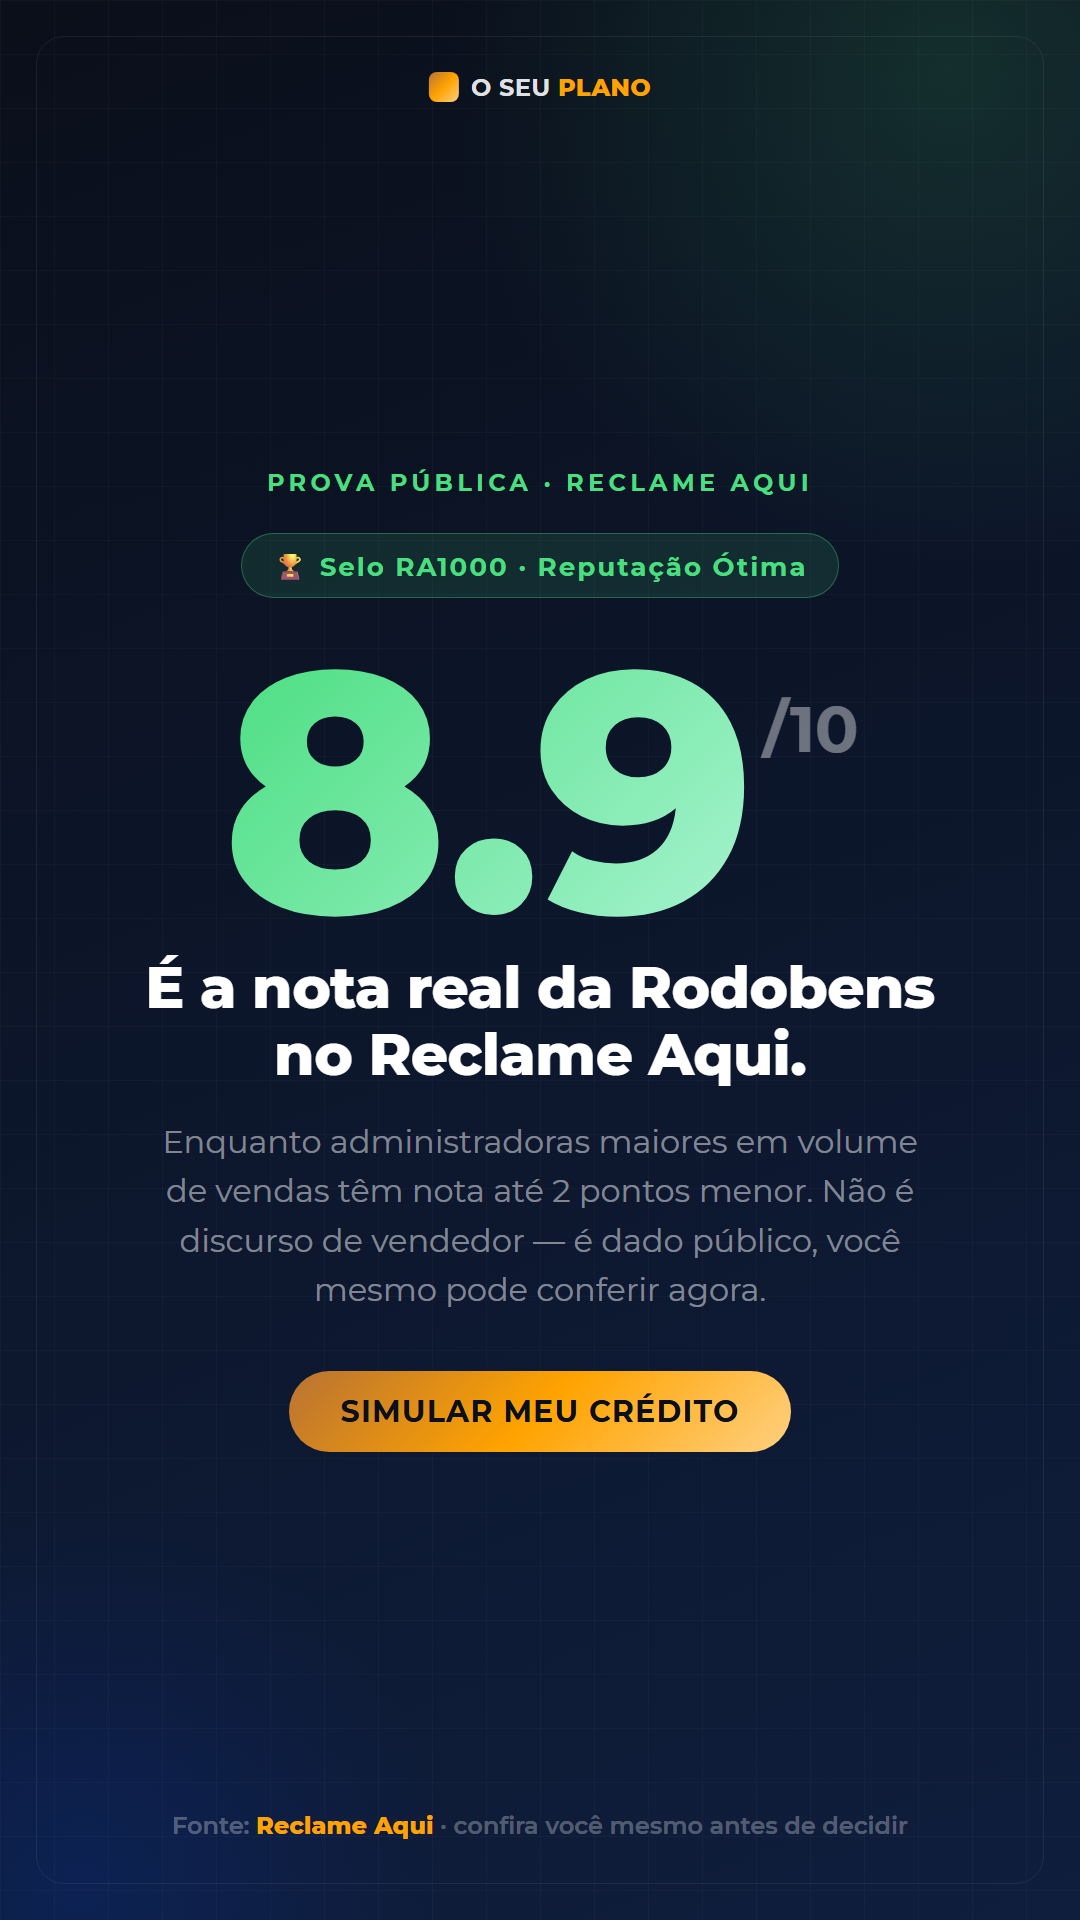
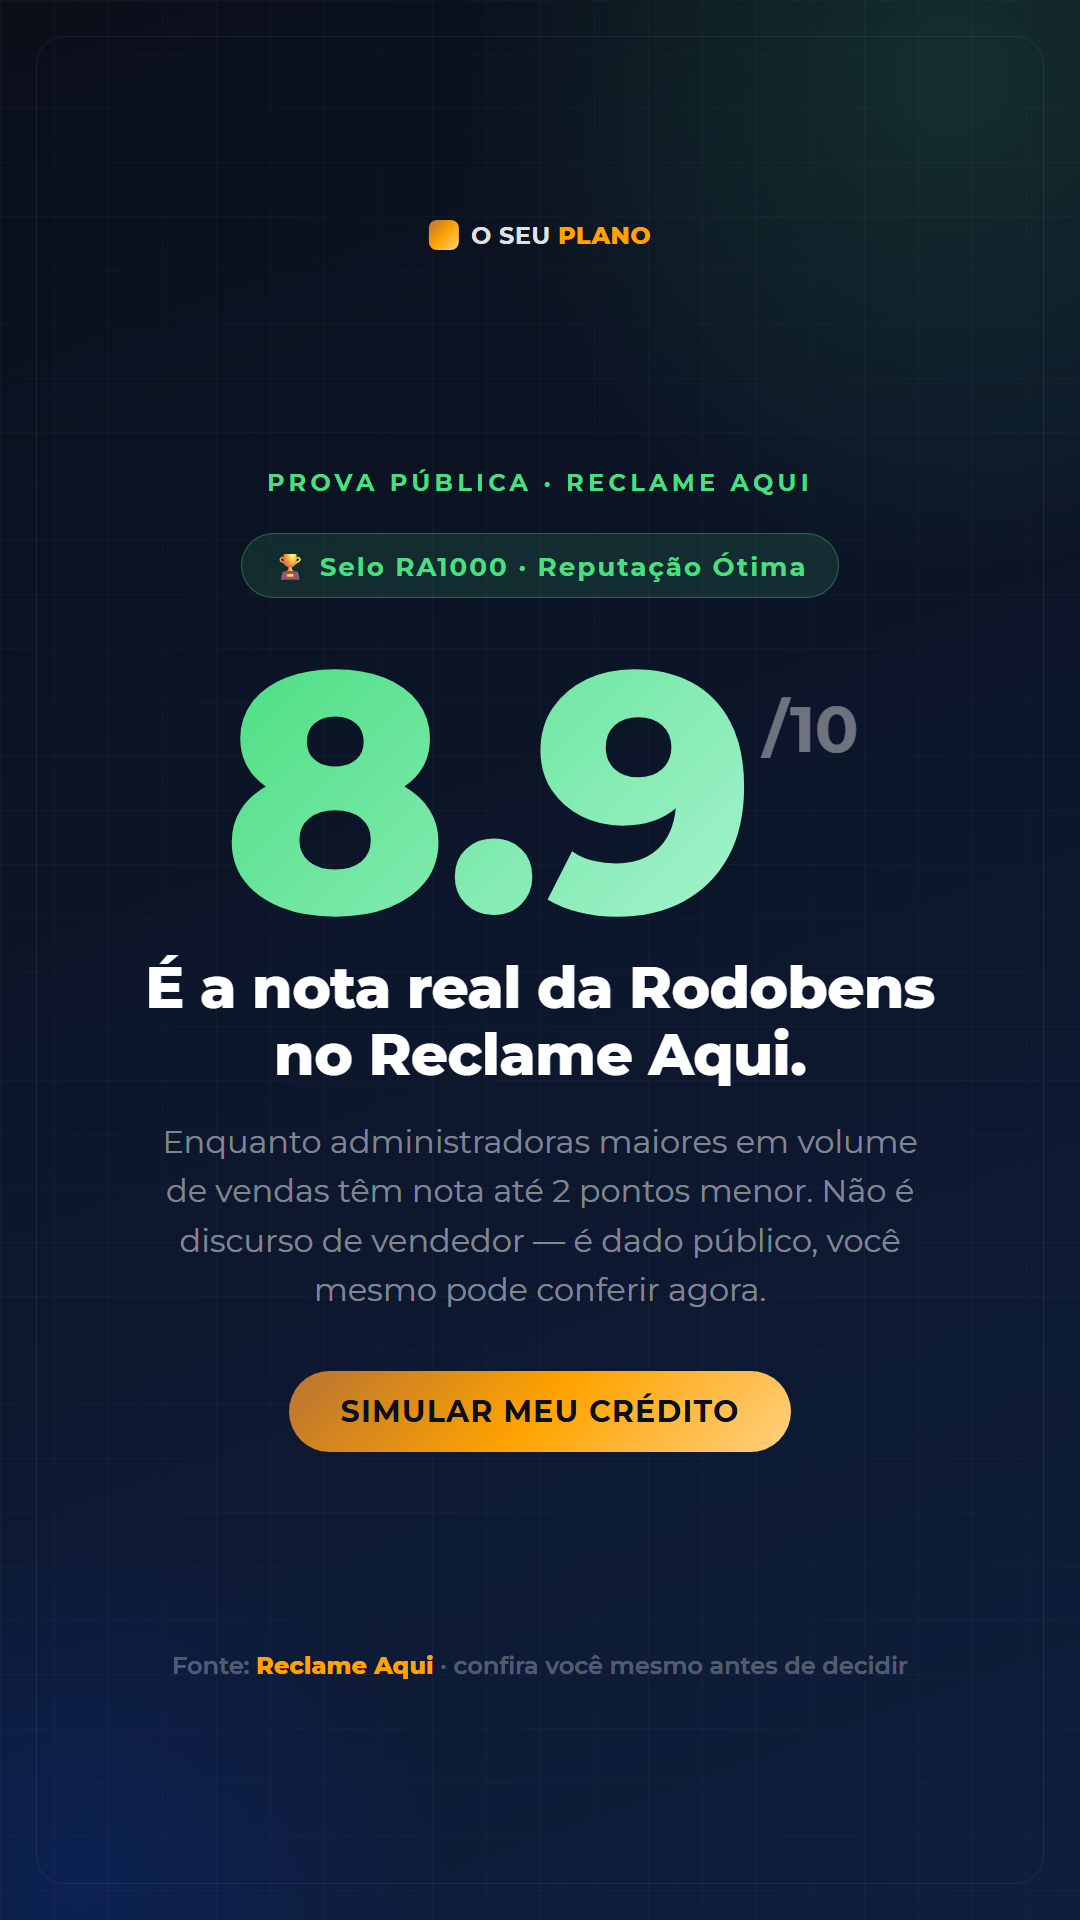
Corrige zona segura de texto em todos os Stories do acervo
Logo, titulo, selos e CTA estavam a menos de 100px do topo/base em
varios templates - exatamente onde o Instagram sobrepoe a propria
interface (usuario/progresso em cima, caixa de resposta embaixo),
cortando/escondendo conteudo na visualizacao real do app. Ajustado
todos os geradores para manter ~220-280px de margem livre nas duas
pontas. Regenerados os 13 arquivos de stories afetados. Regra
documentada no checklist da secao 7 da estrategia.

diff --git a/redes-sociais/estrategia-criativos-performance.md b/redes-sociais/estrategia-criativos-performance.md
@@ -323,3 +323,5 @@ Planeje a gravação como uma entrevista curta, não como um "comercial". Equipa
 - [ ] Alguma afirmação pode virar prova verificável (nota, dado, vídeo real)? Se sim, mostre a prova, não só a afirmação.
 - [ ] Está gerando pelo menos 2 variações pra testar?
 - [ ] Se citar números de concorrência, são de fonte pública (Reclame Aqui, ABAC) e não citam a concorrente pelo nome sem necessidade — usar "média do mercado" ou "outras administradoras" evita fricção desnecessária.
+- [ ] **Feed:** o bloco de texto está centralizado verticalmente (não colado na borda inferior)? Corrigido em 2026-07-24 nos posts do blog — manter esse padrão em tudo que for novo.
+- [ ] **Stories:** nada essencial (logo, título, CTA, legenda) a menos de ~220-250px do topo ou da base? É exatamente onde o Instagram sobrepõe usuário/barra de progresso (topo) e caixa de resposta (base). Corrigido em 2026-07-25 em todo o acervo — todo gerador novo deve nascer já respeitando essa margem.
